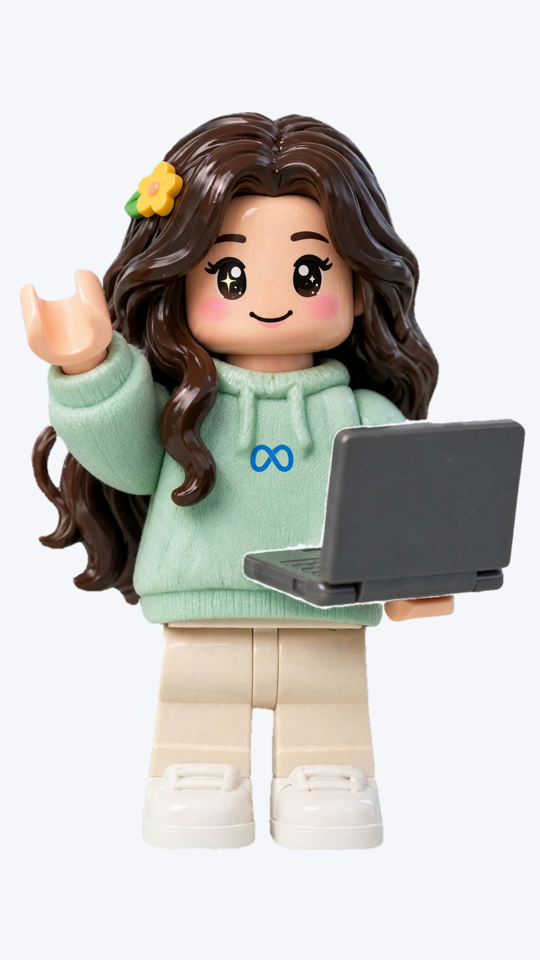
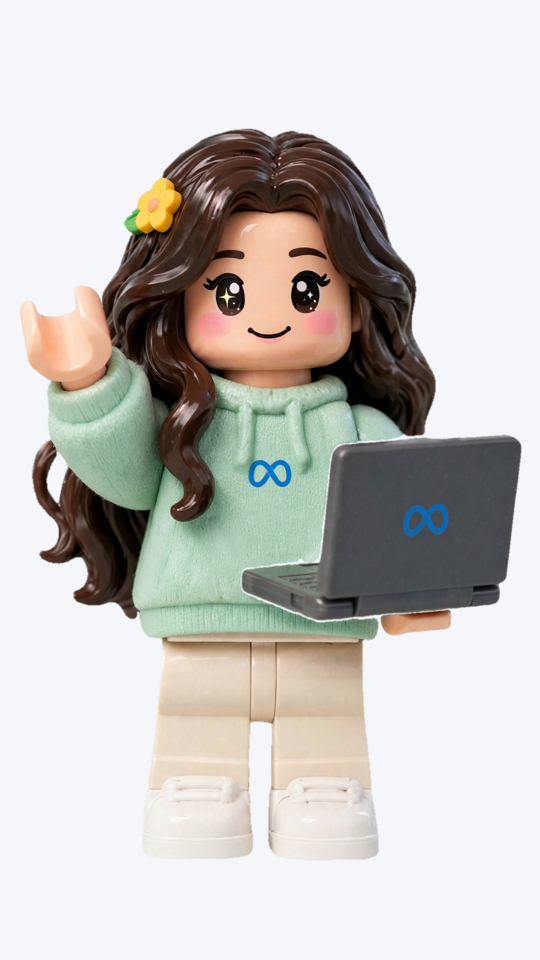
Ada: the infinity sign on the back of her laptop lid too (Sena); the previous version kept as ada-v2.png

Changed region(s): [[0.0296, 0.0938, 0.9778, 0.9062], [0.7407, 0.5, 0.8296, 0.5625], [0.2667, 0.8125, 0.2963, 0.8438]]

diff --git a/experiments/mascot_portraits.py b/experiments/mascot_portraits.py
@@ -56,11 +56,14 @@ PROPS = {
     "iris": ("holding the paint palette and paintbrush, the shoulder bag on, as in the reference",
              ["paint palette", "paintbrush", "bag"]),
     # Ada, Sena 31 Oct: the blue infinity sign on her hoodie like the rest of the cast, and
-    # an open dark grey laptop like Sam's tablet (the earlier pink one with stickers was wrong).
+    # an open dark grey laptop like Sam's tablet (the earlier pink one with stickers was wrong),
+    # its screen turned to her, the same infinity sign on the back of the lid.
     "ada": ("waving with one hand and holding an open dark grey laptop in the other, the "
             "laptop the same dark grey and style as the tablet of the second reference "
             "character; the screen faces HER, not the camera: we see the plain back of the "
-            "lid, no screen, no code visible to us, no stickers, no pink; on the chest "
+            "lid, no screen, no code visible to us, no stickers, no pink; in the middle of "
+            "the lid's back the same blue infinity sign as on her hoodie, as a small glossy "
+            "emblem; on the chest "
             "of her plain mint-green hoodie the small blue infinity sign, exactly like the "
             "one on the second reference character's hoodie; no robot, no other props",
             ["laptop", "hand"]),
@@ -101,7 +104,7 @@ def draw(name):
     hello = CAST[name]
     refs = [MASCOTS / "hello" / f"{hello}.jpg"]
     if name == "ada":   # her current look first, Sam for the logo and the device
-        refs = [OUT / "ada-v1.png", OUT / "sam.png"]
+        refs = [OUT / "ada-v2.png", OUT / "ada-v1.png", OUT / "sam.png"]
     sheet = MASCOTS / "sheets" / f"{hello}.jpg"
     if sheet.exists():
         refs.append(sheet)
